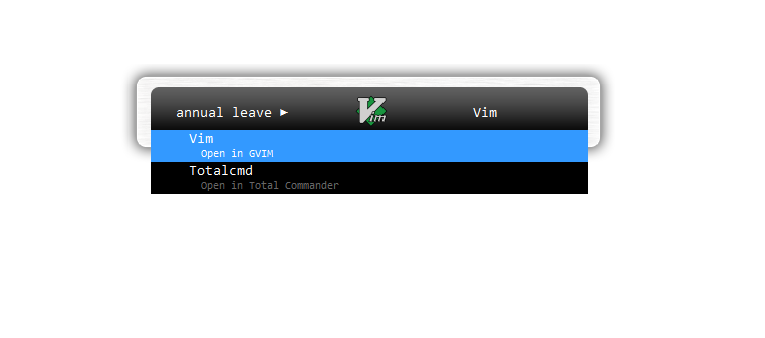
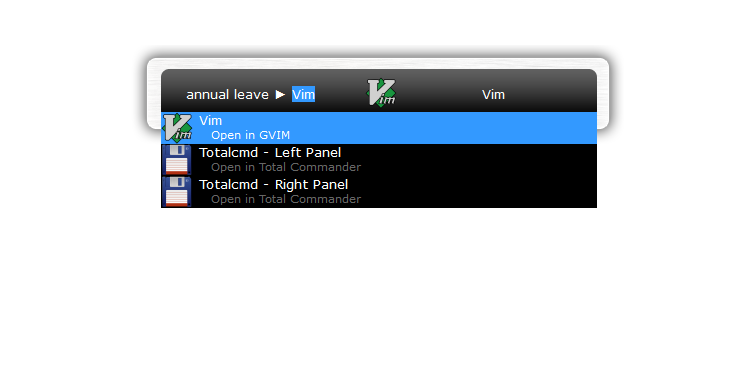
1. update pyverby demo pic 2. update README.md 3. fixed a bug in default operation handler

Changed region(s): [[0.1548, 0.1183, 0.8358, 0.5917]]

diff --git a/plugins/python/PyVerby.py b/plugins/python/PyVerby.py
@@ -160,11 +160,13 @@ class PyVerby(launchy.Plugin):
             self.path = ""
 
         if self.path:
-            resultsList.push_back(self.totalcmdRightPanelCatItem)
-            resultsList.push_back(self.totalcmdLeftPanelCatItem)
-            resultsList.push_back(self.vimCatItem)
             inputDataList[0].setID(self.getID())
             inputDataList[0].getTopResult().id = self.getID()
+
+            if os.path.isfile(self.path):
+                resultsList.push_back(self.totalcmdRightPanelCatItem)
+                resultsList.push_back(self.totalcmdLeftPanelCatItem)
+                resultsList.push_back(self.vimCatItem)
 
     def launchItem(self, inputDataList, catItem):
         """
@@ -195,10 +197,7 @@ class PyVerby(launchy.Plugin):
                 elif modifier == QtCore.Qt.ControlModifier:
                     subprocess.Popen('start TOTALCMD64.exe /O /A /T /L="%s"' % self.path, shell=True)
                 else:
-                    if os.path.isfile(self.path):
-                        subprocess.Popen('"%s"' % self.path, shell=True)
-                    if os.path.isdir(self.path):
-                        subprocess.Popen('start %s' % self.path, shell=True)
+                    launchy.runProgram("%s" % self.path, "")
 
     def hasDialog(self):
         """

diff --git a/README.md b/README.md
@@ -2,31 +2,38 @@
 
 [Launchy](http://www.launchy.net/) is a free utility designed to help you forget about your start menu, your desktop icons, and your file manager. Launchy indexes and launches your applications, documents, project files, folders, and bookmarks with just a few keystrokes!
 
-You can find some launchy plugins written in Python here, and you can even write your own launchy plugins with your imagination.
+Here you can find some launchy plugins written in Python, and you can even write your own launchy plugins with your imagination.
 
 ## Installation
 
-Run **installer.bat**
+```cmd
+# Run installer.bat
+~> installer.bat
+```
+
+You must quit Launchy before installation if a Launchy instance is currently running on your system.
 
 ## BookmarkMgr
 
-BookmarkMgr is designed for opening browser bookmarks from Launchy, currently it only supports Chrome, but this can be extended easily! 
-
-After installation, restart Launchy and rebuild the catalog, now you will be able to search your Chrome bookmarks in Launchy.
-
 ![demo](BookmarkMgr_Demo.png)
+
+Index your browser bookmarks and launch them in Launchy.
+
+After installation, restart Launchy and rebuild catalog, now you will be able to find and launch your bookmarks in Launchy.
+
+**Note: Google Chrome is currently the only browser that is supported, but it's quite easy to extend to other browsers.**
 
 ## PyVerby
 
-PyVerby is very useful, it allows you to customize operations for a certain type of file, for example, you can define operations for a text file like: "open container folder", "open in Vim (notepad++, whatever)", etc. PyVerby is written in Python, very simple and easy to extend features.
-
 ![demo](PyVerby_Demo.png)
 
-**Note**
+PyVerby is very useful, it allows you to customize operations for a certain type of file, for example, you can define operations for a text file like: "open container folder (Total Commander..)", "open in Vim (notepad++, whatever)", etc. 
 
-This plugin is tested under Windows 7 SP1 64-bit, Python 2.7.5 and Google Chrome Version 34.0.1847.131 m
+PyVerby is very simple and flexible to add new features.
 
-Pull requests and feedbacks are welcome.
+**Features**
 
+- Open file/directory in Total Commander left or right panel, and shortcut supported (`<C-Enter>` / `<S-Enter>`).
+- Open file in Vim
 
 
